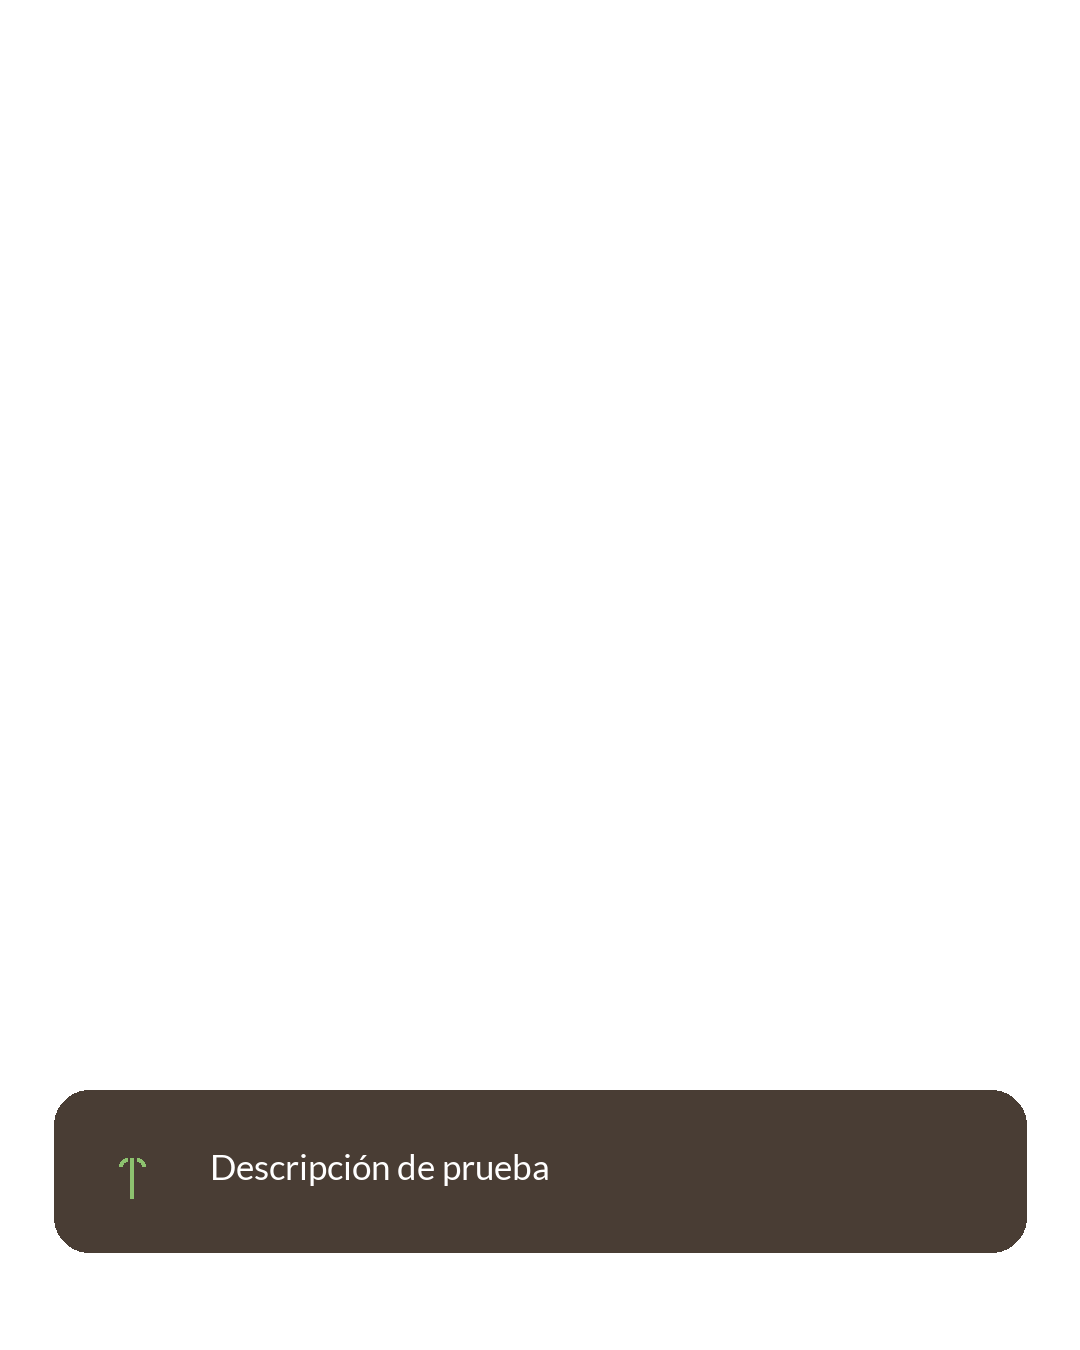
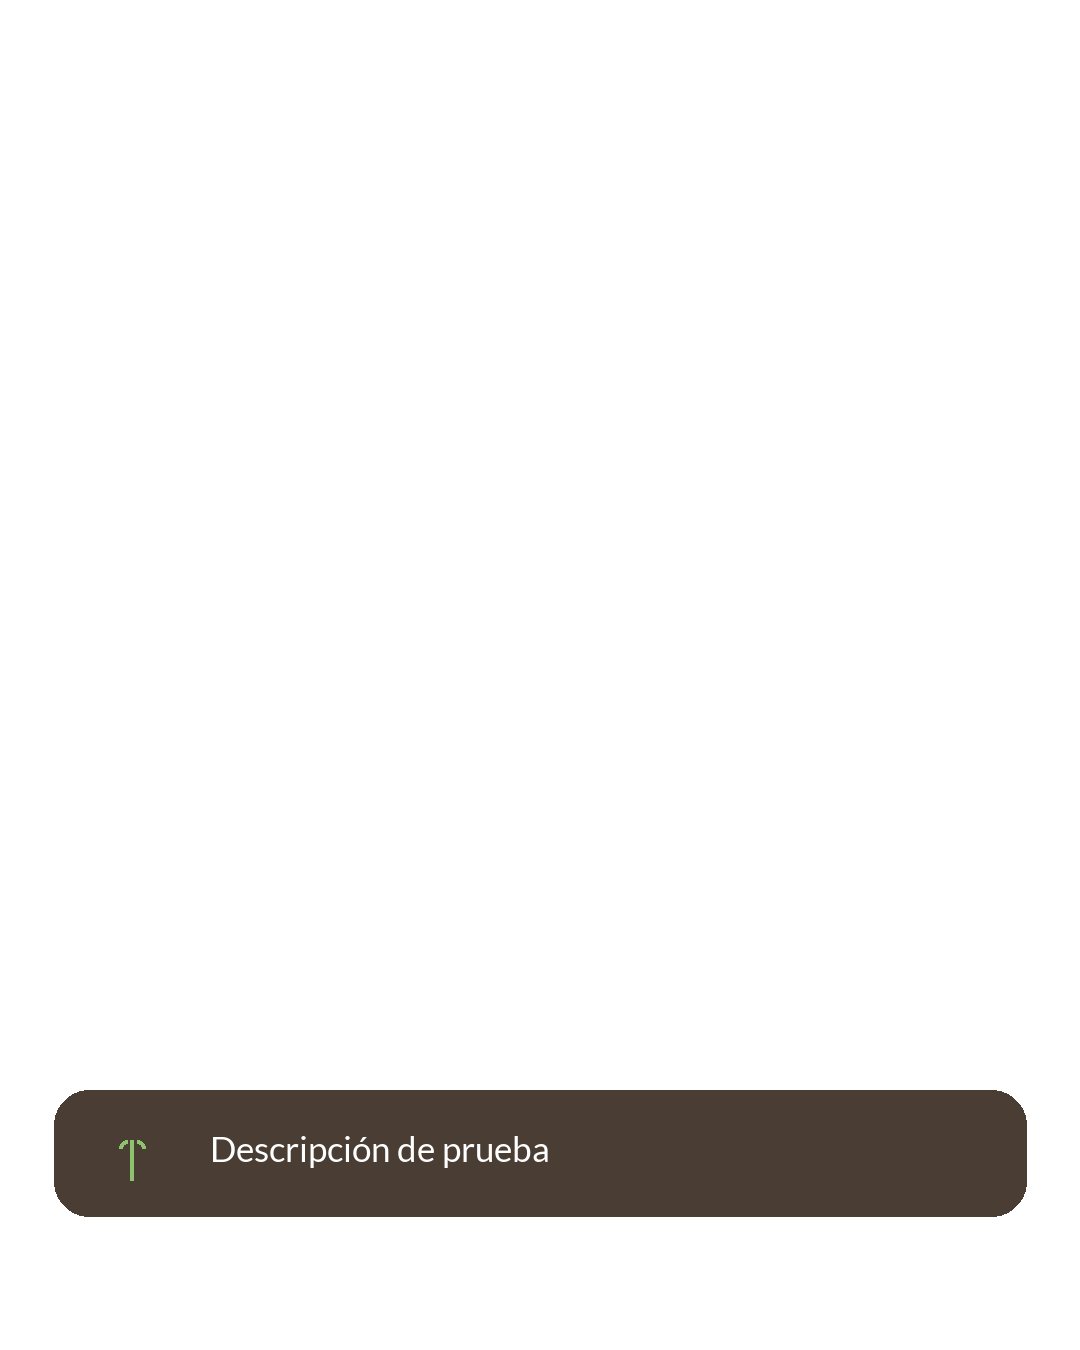
fix: usar alto automatico (h=0) por defecto y en migracion de proyectos legado
El fix del review final: h=0.12 fijo (default nuevo + valor de migracion
legado) podia causar overflow en descripciones de 4+ lineas, comunes en
carruseles importados por lotes (batch_import.py une "beneficios" con
saltos de linea). El render nunca recorta texto, asi que el overflow era
visible. h=0 ya significa "auto-altura" en el fallback de render.py
(box_h = int(H*h) or auto_box_h), asi que este cambio restaura la paridad
exacta con proyectos legado sin perder la configurabilidad del panel de
propiedades (slider H sigue funcionando para fijar una altura explicita).

Changed region(s): [[0.0306, 0.8711, 0.9472, 0.9333], [0.1833, 0.84, 0.5194, 0.8711]]

diff --git a/verificaciones/fase4_cta_caja_verificacion.py b/verificaciones/fase4_cta_caja_verificacion.py
@@ -44,8 +44,8 @@ def main():
     desc = next(l for l in project.slides[0].layers if l.type == "box")
     desc.text = "Descripción de prueba"
 
-    # Render con la caja de descripcion default (w=0.90,h=0.12 fijados en el
-    # modelo) vs. con colores/tamaño no default.
+    # Render con la caja de descripcion default (w=0.90 fijado, h=0.0 = auto
+    # altura segun el contenido de texto) vs. con colores/tamaño no default.
     render_default, _ = compose([_layer_dict_box(desc)], canvas_size, font_manager)
     render_default.save(OUT_DIR / "caja_default.png")
 
@@ -86,7 +86,7 @@ def main():
     reloaded_legacy = load_project(legacy_path)
     reloaded_legacy_desc = next(l for l in reloaded_legacy.slides[0].layers if l.type == "box")
     assert reloaded_legacy_desc.w == 0.90
-    assert reloaded_legacy_desc.h == 0.12
+    assert reloaded_legacy_desc.h == 0.0
 
     # Importador por lotes crea CTALayer real.
     import_dir = OUT_DIR / "importar"

diff --git a/tests/test_project_io.py b/tests/test_project_io.py
@@ -147,7 +147,7 @@ class TestLoadProjectMigratesLegacyBoxSize(unittest.TestCase):
 
         reloaded_desc = next(l for l in reloaded.slides[0].layers if l.type == "box")
         self.assertEqual(reloaded_desc.w, 0.90)
-        self.assertEqual(reloaded_desc.h, 0.12)
+        self.assertEqual(reloaded_desc.h, 0.0)
 
     def test_nonzero_w_h_box_layer_is_left_untouched_on_load(self):
         project = crear_proyecto_por_defecto("foto.jpg")
@@ -177,7 +177,7 @@ class TestLoadProjectMigratesLegacyBoxSize(unittest.TestCase):
 
         reloaded_desc = next(l for l in reloaded.slides[0].layers if l.type == "box")
         self.assertEqual(reloaded_desc.w, 0.5)
-        self.assertEqual(reloaded_desc.h, 0.12)
+        self.assertEqual(reloaded_desc.h, 0.0)
 
     def test_zero_w_h_cta_layer_is_not_migrated(self):
         project = crear_proyecto_por_defecto("foto.jpg")

diff --git a/dcpub/models.py b/dcpub/models.py
@@ -200,7 +200,7 @@ def crear_slide_por_defecto(
                   size=0.087, text=titulo),
         TextLayer(name="Subtítulo", z=3, x=0.50, y=0.55,
                   role="subtitle", size=0.050, text=subtitulo),
-        BoxLayer(name="Descripción", z=4, x=0.05, y=0.808, w=0.90, h=0.12,
+        BoxLayer(name="Descripción", z=4, x=0.05, y=0.808, w=0.90, h=0.0,
                  size=0.033, text=descripcion, icon="planta"),
     ]
     return slide

diff --git a/dcpub/project_io.py b/dcpub/project_io.py
@@ -41,7 +41,7 @@ def save_project(project: Project, path: Path) -> None:
 
 
 _LEGACY_BOX_DEFAULT_W = 0.90
-_LEGACY_BOX_DEFAULT_H = 0.12
+_LEGACY_BOX_DEFAULT_H = 0.0
 
 
 def load_project(path: Path) -> Project: